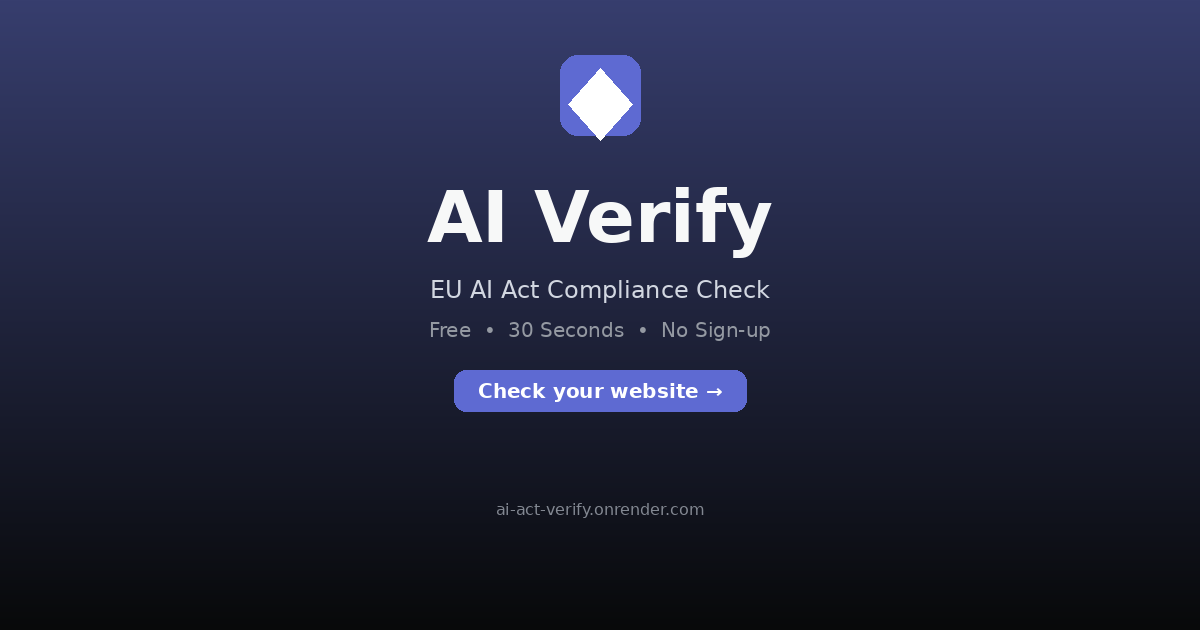
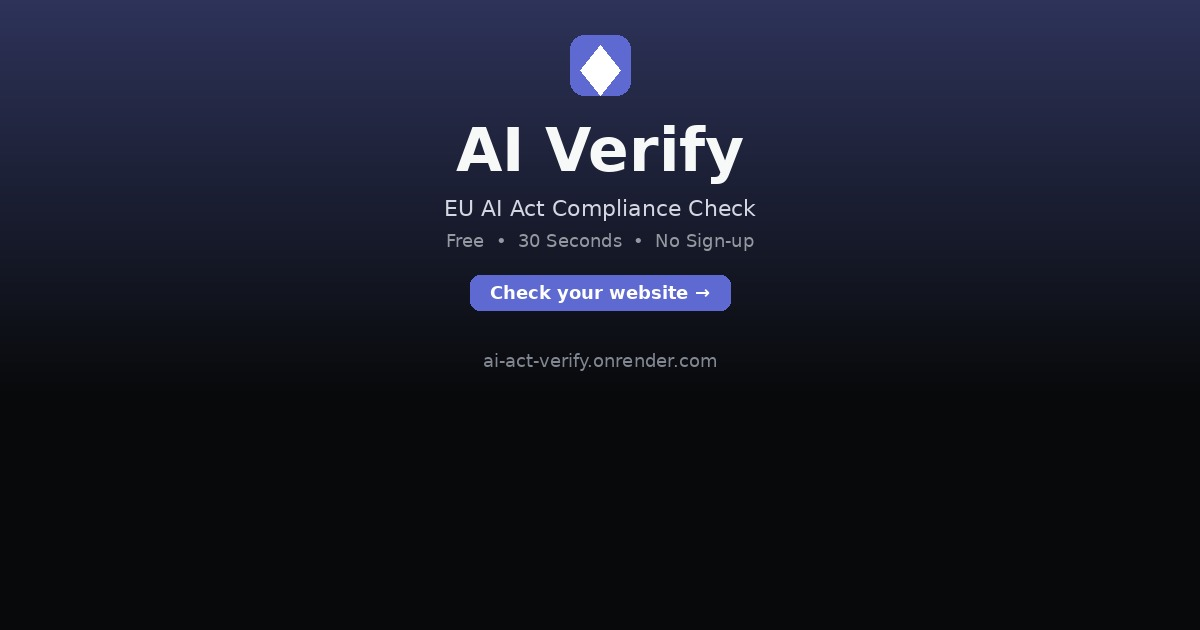
Fix OG image: content in top 370px safe zone, add og:image:width/height/type, cache-busting ?v=2

diff --git a/docs/brand-ai-verify.html b/docs/brand-ai-verify.html
@@ -4,14 +4,16 @@
 <meta charset="UTF-8">
 <meta name="viewport" content="width=device-width, initial-scale=1.0">
 <title>AI Verify — Final Brand</title>
-<link rel="icon" type="image/svg+xml" href="favicon.svg">
+<link rel="icon" type="image/svg+xml" href="/static/favicon.svg">
 <meta property="og:title" content="AI Verify — EU AI Act Compliance">
-<meta property="og:image" content="https://ai-act-verify.onrender.com/static/og-image.png">
+<meta property="og:image" content="https://ai-act-verify.onrender.com/static/og-image.png?v=2?v=2">
+<meta property="og:image:width" content="1200">
+<meta property="og:image:height" content="630">
+<meta property="og:image:type" content="image/png">
 <meta property="og:type" content="website">
 <meta name="twitter:card" content="summary_large_image">
 <link href="https://fonts.googleapis.com/css2?family=Inter:wght@300;400;500;600;700;800&family=JetBrains+Mono:wght@400;500&display=swap" rel="stylesheet">
-<style>
-:root { --bg: #08090a; --surface: #0f1011; --surface2: #191a1b; --surface3: #23252a; --text: #f7f8f8; --text2: #d0d6e0; --text3: #8a8f98; --border: rgba(255,255,255,0.08); --radius: 12px; }
+<style>:root { --bg: #08090a; --surface: #0f1011; --surface2: #191a1b; --surface3: #23252a; --text: #f7f8f8; --text2: #d0d6e0; --text3: #8a8f98; --border: rgba(255,255,255,0.08); --radius: 12px; }
 * { margin: 0; padding: 0; box-sizing: border-box; }
 body { font-family: 'Inter', sans-serif; background: var(--bg); color: var(--text); line-height: 1.6; padding: 40px 24px; }
 .container { max-width: 1100px; margin: 0 auto; }

diff --git a/docs/brand-concepts.html b/docs/brand-concepts.html
@@ -4,14 +4,16 @@
 <meta charset="UTF-8">
 <meta name="viewport" content="width=device-width, initial-scale=1.0">
 <title>Brand Concepts — AI Verify</title>
-<link rel="icon" type="image/svg+xml" href="favicon.svg">
+<link rel="icon" type="image/svg+xml" href="/static/favicon.svg">
 <meta property="og:title" content="AI Verify — Brand Concepts">
-<meta property="og:image" content="https://ai-act-verify.onrender.com/static/og-image.png">
+<meta property="og:image" content="https://ai-act-verify.onrender.com/static/og-image.png?v=2?v=2">
+<meta property="og:image:width" content="1200">
+<meta property="og:image:height" content="630">
+<meta property="og:image:type" content="image/png">
 <meta property="og:type" content="website">
 <meta name="twitter:card" content="summary_large_image">
 <link href="https://fonts.googleapis.com/css2?family=Inter:wght@300;400;500;600;700;800&family=JetBrains+Mono:wght@400;500&display=swap" rel="stylesheet">
-<style>
-:root { --bg: #08090a; --surface: #0f1011; --surface2: #191a1b; --surface3: #23252a; --text: #f7f8f8; --text2: #d0d6e0; --text3: #8a8f98; --border: rgba(255,255,255,0.08); --radius: 12px; }
+<style>:root { --bg: #08090a; --surface: #0f1011; --surface2: #191a1b; --surface3: #23252a; --text: #f7f8f8; --text2: #d0d6e0; --text3: #8a8f98; --border: rgba(255,255,255,0.08); --radius: 12px; }
 * { margin: 0; padding: 0; box-sizing: border-box; }
 body { font-family: 'Inter', sans-serif; background: var(--bg); color: var(--text); line-height: 1.6; padding: 40px 24px; }
 .container { max-width: 1300px; margin: 0 auto; }

diff --git a/docs/result.html b/docs/result.html
@@ -4,16 +4,19 @@
     <meta charset="UTF-8">
     <meta name="viewport" content="width=device-width, initial-scale=1.0">
     <title>Your AI Compliance Report — AI Verify</title>
-    <link rel="icon" type="image/svg+xml" href="favicon.svg">
+    <link rel="icon" type="image/svg+xml" href="/static/favicon.svg">
     <meta property="og:title" content="AI Verify — Compliance Report">
     <meta property="og:description" content="Your EU AI Act compliance report is ready. AI-powered analysis with actionable recommendations.">
-    <meta property="og:image" content="https://ai-act-verify.onrender.com/static/og-image.png">
+    <meta property="og:image" content="https://ai-act-verify.onrender.com/static/og-image.png?v=2?v=2">
+    <meta property="og:image:width" content="1200">
+    <meta property="og:image:height" content="630">
+    <meta property="og:image:type" content="image/png">
     <meta property="og:url" content="https://ai-act-verify.onrender.com/result-page">
     <meta property="og:type" content="website">
     <meta name="twitter:card" content="summary_large_image">
     <meta name="twitter:title" content="AI Verify — Compliance Report">
     <meta name="twitter:description" content="Your EU AI Act compliance report.">
-    <meta name="twitter:image" content="https://ai-act-verify.onrender.com/static/og-image.png">
+    <meta name="twitter:image" content="https://ai-act-verify.onrender.com/static/og-image.png?v=2">
     <link href="https://fonts.googleapis.com/css2?family=Inter:wght@300;400;500;600;700&family=JetBrains+Mono:wght@400;500&display=swap" rel="stylesheet">
     <style>
         :root {

diff --git a/docs/submit.html b/docs/submit.html
@@ -4,16 +4,19 @@
     <meta charset="UTF-8">
     <meta name="viewport" content="width=device-width, initial-scale=1.0">
     <title>AI Verify — Check Your Company</title>
-    <link rel="icon" type="image/svg+xml" href="favicon.svg">
+    <link rel="icon" type="image/svg+xml" href="/static/favicon.svg">
     <meta property="og:title" content="AI Verify — Check Your Company">
     <meta property="og:description" content="Check your website for EU AI Act compliance in 30 seconds. Free compliance report with actionable recommendations.">
-    <meta property="og:image" content="https://ai-act-verify.onrender.com/static/og-image.png">
+    <meta property="og:image" content="https://ai-act-verify.onrender.com/static/og-image.png?v=2?v=2">
+    <meta property="og:image:width" content="1200">
+    <meta property="og:image:height" content="630">
+    <meta property="og:image:type" content="image/png">
     <meta property="og:url" content="https://ai-act-verify.onrender.com/submit-page">
     <meta property="og:type" content="website">
     <meta name="twitter:card" content="summary_large_image">
     <meta name="twitter:title" content="AI Verify — Check Your Company">
     <meta name="twitter:description" content="Free EU AI Act compliance check in 30 seconds.">
-    <meta name="twitter:image" content="https://ai-act-verify.onrender.com/static/og-image.png">
+    <meta name="twitter:image" content="https://ai-act-verify.onrender.com/static/og-image.png?v=2">
     <link href="https://fonts.googleapis.com/css2?family=Inter:wght@300;400;500;600;700&family=JetBrains+Mono:wght@400;500&display=swap" rel="stylesheet">
     <style>
         :root {

diff --git a/static/brand-ai-verify.html b/static/brand-ai-verify.html
@@ -6,12 +6,14 @@
 <title>AI Verify — Final Brand</title>
 <link rel="icon" type="image/svg+xml" href="/static/favicon.svg">
 <meta property="og:title" content="AI Verify — EU AI Act Compliance">
-<meta property="og:image" content="https://ai-act-verify.onrender.com/static/og-image.png">
+<meta property="og:image" content="https://ai-act-verify.onrender.com/static/og-image.png?v=2">
+<meta property="og:image:width" content="1200">
+<meta property="og:image:height" content="630">
+<meta property="og:image:type" content="image/png">
 <meta property="og:type" content="website">
 <meta name="twitter:card" content="summary_large_image">
 <link href="https://fonts.googleapis.com/css2?family=Inter:wght@300;400;500;600;700;800&family=JetBrains+Mono:wght@400;500&display=swap" rel="stylesheet">
-<style>
-:root { --bg: #08090a; --surface: #0f1011; --surface2: #191a1b; --surface3: #23252a; --text: #f7f8f8; --text2: #d0d6e0; --text3: #8a8f98; --border: rgba(255,255,255,0.08); --radius: 12px; }
+<style>:root { --bg: #08090a; --surface: #0f1011; --surface2: #191a1b; --surface3: #23252a; --text: #f7f8f8; --text2: #d0d6e0; --text3: #8a8f98; --border: rgba(255,255,255,0.08); --radius: 12px; }
 * { margin: 0; padding: 0; box-sizing: border-box; }
 body { font-family: 'Inter', sans-serif; background: var(--bg); color: var(--text); line-height: 1.6; padding: 40px 24px; }
 .container { max-width: 1100px; margin: 0 auto; }

diff --git a/static/brand-concepts.html b/static/brand-concepts.html
@@ -6,12 +6,14 @@
 <title>Brand Concepts — AI Verify</title>
 <link rel="icon" type="image/svg+xml" href="/static/favicon.svg">
 <meta property="og:title" content="AI Verify — Brand Concepts">
-<meta property="og:image" content="https://ai-act-verify.onrender.com/static/og-image.png">
+<meta property="og:image" content="https://ai-act-verify.onrender.com/static/og-image.png?v=2">
+<meta property="og:image:width" content="1200">
+<meta property="og:image:height" content="630">
+<meta property="og:image:type" content="image/png">
 <meta property="og:type" content="website">
 <meta name="twitter:card" content="summary_large_image">
 <link href="https://fonts.googleapis.com/css2?family=Inter:wght@300;400;500;600;700;800&family=JetBrains+Mono:wght@400;500&display=swap" rel="stylesheet">
-<style>
-:root { --bg: #08090a; --surface: #0f1011; --surface2: #191a1b; --surface3: #23252a; --text: #f7f8f8; --text2: #d0d6e0; --text3: #8a8f98; --border: rgba(255,255,255,0.08); --radius: 12px; }
+<style>:root { --bg: #08090a; --surface: #0f1011; --surface2: #191a1b; --surface3: #23252a; --text: #f7f8f8; --text2: #d0d6e0; --text3: #8a8f98; --border: rgba(255,255,255,0.08); --radius: 12px; }
 * { margin: 0; padding: 0; box-sizing: border-box; }
 body { font-family: 'Inter', sans-serif; background: var(--bg); color: var(--text); line-height: 1.6; padding: 40px 24px; }
 .container { max-width: 1300px; margin: 0 auto; }

diff --git a/docs/index.html b/docs/index.html
@@ -7,13 +7,16 @@
 <link rel="icon" type="image/svg+xml" href="/static/favicon.svg">
 <meta property="og:title" content="AI Verify — EU AI Act Compliance Check">
 <meta property="og:description" content="Check your website for EU AI Act compliance in 30 seconds. Free. No technical knowledge required.">
-<meta property="og:image" content="https://ai-act-verify.onrender.com/static/og-image.png">
+<meta property="og:image" content="https://ai-act-verify.onrender.com/static/og-image.png?v=2?v=2">
+<meta property="og:image:width" content="1200">
+<meta property="og:image:height" content="630">
+<meta property="og:image:type" content="image/png">
 <meta property="og:url" content="https://ai-act-verify.onrender.com/">
 <meta property="og:type" content="website">
 <meta name="twitter:card" content="summary_large_image">
 <meta name="twitter:title" content="AI Verify — EU AI Act Compliance Check">
 <meta name="twitter:description" content="Check your website for EU AI Act compliance in 30 seconds. Free.">
-<meta name="twitter:image" content="https://ai-act-verify.onrender.com/static/og-image.png">
+<meta name="twitter:image" content="https://ai-act-verify.onrender.com/static/og-image.png?v=2">
 <link href="https://fonts.googleapis.com/css2?family=Inter:wght@300;400;500;600;700&display=swap" rel="stylesheet">
 <style>
 :root {

diff --git a/static/index.html b/static/index.html
@@ -7,7 +7,10 @@
 <link rel="icon" type="image/svg+xml" href="/static/favicon.svg">
 <meta property="og:title" content="AI Verify — EU AI Act Compliance Check">
 <meta property="og:description" content="Check your website for EU AI Act compliance in 30 seconds. Free. No technical knowledge required.">
-<meta property="og:image" content="https://ai-act-verify.onrender.com/static/og-image.png">
+<meta property="og:image" content="https://ai-act-verify.onrender.com/static/og-image.png?v=2">
+<meta property="og:image:width" content="1200">
+<meta property="og:image:height" content="630">
+<meta property="og:image:type" content="image/png">
 <meta property="og:url" content="https://ai-act-verify.onrender.com/">
 <meta property="og:type" content="website">
 <meta name="twitter:card" content="summary_large_image">

diff --git a/static/result.html b/static/result.html
@@ -7,7 +7,10 @@
     <link rel="icon" type="image/svg+xml" href="/static/favicon.svg">
     <meta property="og:title" content="AI Verify — Compliance Report">
     <meta property="og:description" content="Your EU AI Act compliance report is ready. AI-powered analysis with actionable recommendations.">
-    <meta property="og:image" content="https://ai-act-verify.onrender.com/static/og-image.png">
+    <meta property="og:image" content="https://ai-act-verify.onrender.com/static/og-image.png?v=2">
+    <meta property="og:image:width" content="1200">
+    <meta property="og:image:height" content="630">
+    <meta property="og:image:type" content="image/png">
     <meta property="og:url" content="https://ai-act-verify.onrender.com/result-page">
     <meta property="og:type" content="website">
     <meta name="twitter:card" content="summary_large_image">

diff --git a/static/submit.html b/static/submit.html
@@ -7,7 +7,10 @@
     <link rel="icon" type="image/svg+xml" href="/static/favicon.svg">
     <meta property="og:title" content="AI Verify — Check Your Company">
     <meta property="og:description" content="Check your website for EU AI Act compliance in 30 seconds. Free compliance report with actionable recommendations.">
-    <meta property="og:image" content="https://ai-act-verify.onrender.com/static/og-image.png">
+    <meta property="og:image" content="https://ai-act-verify.onrender.com/static/og-image.png?v=2">
+    <meta property="og:image:width" content="1200">
+    <meta property="og:image:height" content="630">
+    <meta property="og:image:type" content="image/png">
     <meta property="og:url" content="https://ai-act-verify.onrender.com/submit-page">
     <meta property="og:type" content="website">
     <meta name="twitter:card" content="summary_large_image">